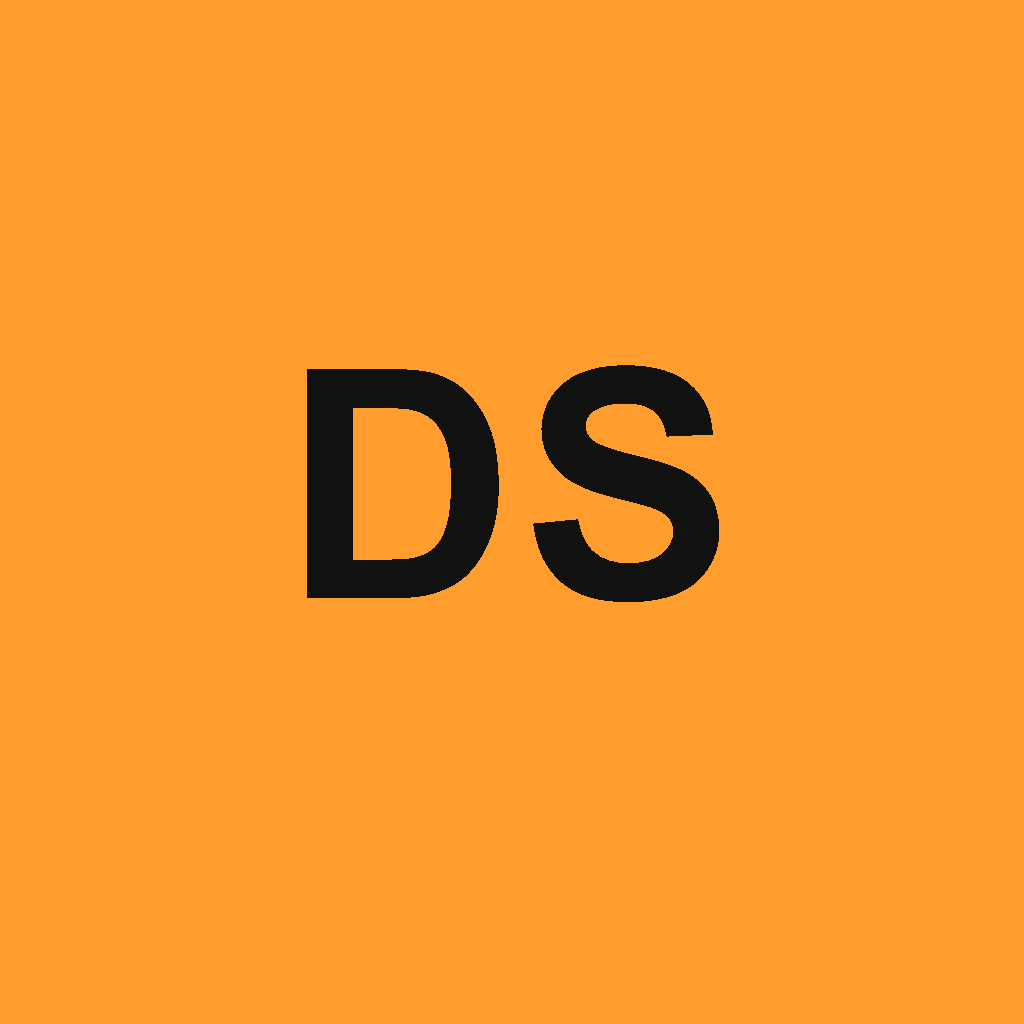
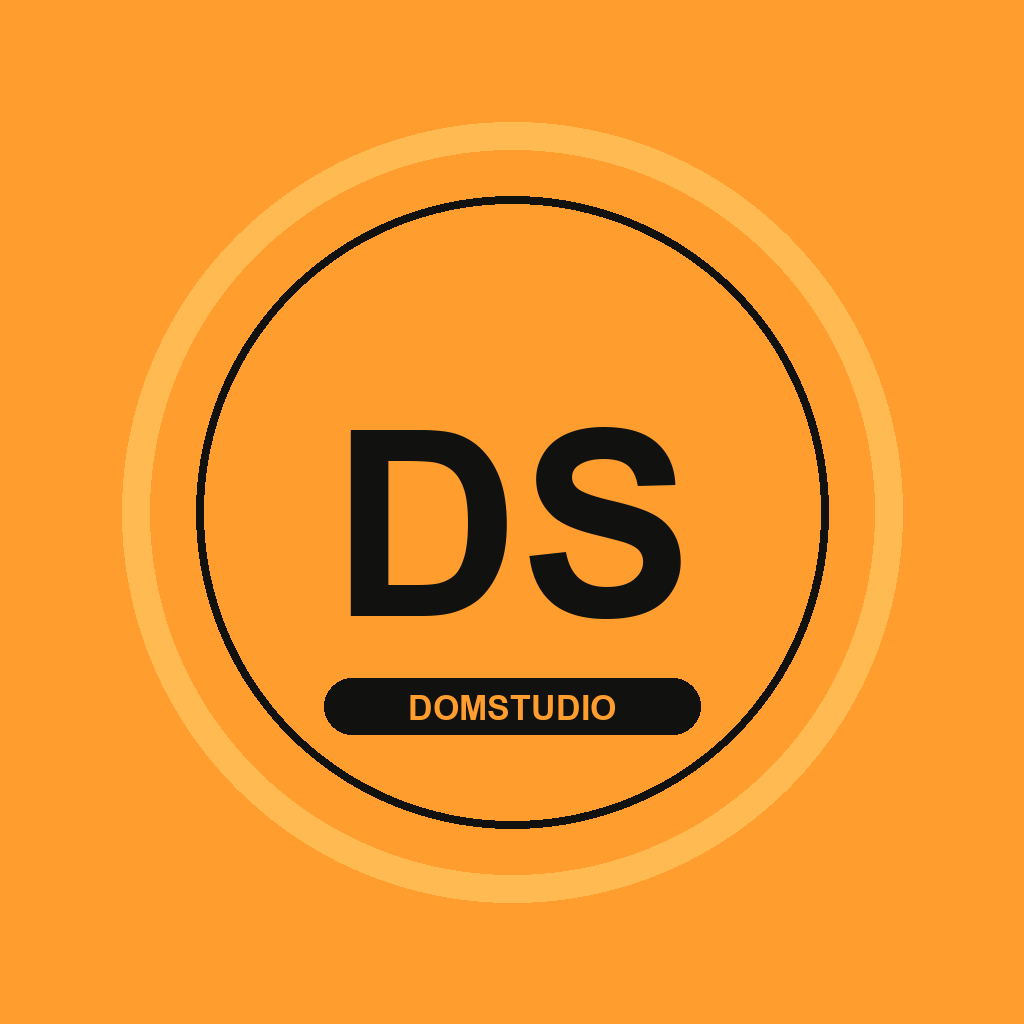
Fix native home controls and branding

Changed region(s): [[0.0938, 0.0938, 0.9062, 0.9062], [0.2812, 0.3438, 0.7188, 0.625]]

diff --git a/domstudio-mobile/App.tsx b/domstudio-mobile/App.tsx
@@ -5,6 +5,7 @@ import {
   Image,
   ImageSourcePropType,
   LogBox,
+  Modal,
   Pressable,
   ScrollView,
   StatusBar,
@@ -585,7 +586,15 @@ function MainTabs(props: {
       }}
     >
       <Tabs.Screen name="Home" options={{ tabBarIcon: ({ color }) => <TabGlyph color={color} kind="home" /> }}>
-        {({ navigation }) => <HomeScreen offline={props.offline} tokens={props.user.tokens ?? 0} onCreate={() => navigation.navigate("Studio")} />}
+        {({ navigation }) => (
+          <HomeScreen
+            offline={props.offline}
+            tokens={props.user.tokens ?? 0}
+            onCreate={() => navigation.navigate("Studio")}
+            onExamples={() => navigation.navigate("Examples")}
+            onPricing={() => navigation.navigate("Pricing")}
+          />
+        )}
       </Tabs.Screen>
       <Tabs.Screen name="Studio" options={{ tabBarIcon: ({ color }) => <TabGlyph color={color} kind="studio" /> }}>
         {() => <StudioScreen {...props} />}
@@ -600,18 +609,50 @@ function MainTabs(props: {
   );
 }
 
-function HomeScreen({ offline, onCreate, tokens }: { offline: boolean; onCreate: () => void; tokens: number }) {
+function HomeScreen({
+  offline,
+  onCreate,
+  onExamples,
+  onPricing,
+  tokens
+}: {
+  offline: boolean;
+  onCreate: () => void;
+  onExamples: () => void;
+  onPricing: () => void;
+  tokens: number;
+}) {
+  const [language, setLanguage] = useState<"RU" | "EN">("RU");
+  const [menuOpen, setMenuOpen] = useState(false);
+
+  function runMenuAction(action: () => void) {
+    setMenuOpen(false);
+    action();
+  }
+
   return (
     <SafeAreaView style={styles.homeSafe}>
       <ScrollView contentContainerStyle={styles.homePage} keyboardShouldPersistTaps="handled">
         <View style={styles.homeTopBar}>
           <View style={styles.homeBrandMark}><Text style={styles.homeBrandText}>DS</Text></View>
           <View style={styles.homeTopActions}>
-            <View style={styles.homeRoundButton}><Text style={styles.homeRoundText}>RU</Text></View>
-            <View style={styles.homeRoundButton}>
+            <Pressable
+              accessibilityRole="button"
+              accessibilityLabel="Toggle language"
+              style={({ pressed }) => [styles.homeRoundButton, pressed && styles.homeRoundButtonPressed]}
+              onPress={() => setLanguage((value) => (value === "RU" ? "EN" : "RU"))}
+            >
+              <Text style={styles.homeRoundText}>{language}</Text>
+            </Pressable>
+            <Pressable
+              accessibilityRole="button"
+              accessibilityLabel="Open menu"
+              style={({ pressed }) => [styles.homeRoundButton, pressed && styles.homeRoundButtonPressed]}
+              onPress={() => setMenuOpen(true)}
+            >
               <View style={styles.homeMenuLine} />
               <View style={styles.homeMenuLine} />
-            </View>
+            </Pressable>
           </View>
         </View>
 
@@ -636,7 +677,7 @@ function HomeScreen({ offline, onCreate, tokens }: { offline: boolean; onCreate:
         <View style={styles.homeMiniStudio}>
           <View style={styles.homeMiniHead}>
             <Text style={styles.homeMiniKicker}>Mini studio</Text>
-            <Text style={styles.homeMiniMeta}>WB · Ozon · Yandex · Avito</Text>
+            <Text style={styles.homeMiniMeta}>WB / Ozon / Yandex / Avito</Text>
           </View>
           <View style={styles.homeProofStrip}>
             <View style={styles.homeProofSlot}>
@@ -670,6 +711,30 @@ function HomeScreen({ offline, onCreate, tokens }: { offline: boolean; onCreate:
           </View>
         </View>
       </ScrollView>
+      <Modal animationType="fade" transparent visible={menuOpen} onRequestClose={() => setMenuOpen(false)}>
+        <Pressable style={styles.menuBackdrop} onPress={() => setMenuOpen(false)}>
+          <Pressable style={styles.homeMenuPanel} onPress={() => undefined}>
+            <View style={styles.menuHandle} />
+            <Text style={styles.menuTitle}>DomStudio</Text>
+            <Text style={styles.menuSub}>Move through the seller workflow.</Text>
+            <Pressable style={styles.menuItem} onPress={() => runMenuAction(onCreate)}>
+              <Text style={styles.menuItemText}>Create photo</Text>
+              <Text style={styles.menuItemMeta}>Open Studio</Text>
+            </Pressable>
+            <Pressable style={styles.menuItem} onPress={() => runMenuAction(onExamples)}>
+              <Text style={styles.menuItemText}>Examples</Text>
+              <Text style={styles.menuItemMeta}>See formats</Text>
+            </Pressable>
+            <Pressable style={styles.menuItem} onPress={() => runMenuAction(onPricing)}>
+              <Text style={styles.menuItemText}>Pricing</Text>
+              <Text style={styles.menuItemMeta}>Plans and limits</Text>
+            </Pressable>
+            <Pressable style={styles.menuCloseButton} onPress={() => setMenuOpen(false)}>
+              <Text style={styles.menuCloseText}>Close</Text>
+            </Pressable>
+          </Pressable>
+        </Pressable>
+      </Modal>
     </SafeAreaView>
   );
 }
@@ -1255,7 +1320,7 @@ function SettingsScreen({
       <View style={styles.card}>
         <Text style={styles.cardTitle}>Build readiness</Text>
         <Text style={styles.muted}>Camera, gallery picker, media-library save, secure tokens, and native tabs are enabled.</Text>
-        <Text style={styles.muted}>Icons and splash are placeholders until final brand assets are supplied.</Text>
+        <Text style={styles.muted}>Native icon, splash, Home, Studio, Examples, and Pricing surfaces now share the DomStudio brand system.</Text>
       </View>
     </Screen>
   );
@@ -1418,6 +1483,10 @@ const styles = StyleSheet.create({
     backgroundColor: "#ffffff",
     borderWidth: 1,
     borderColor: "rgba(17, 17, 15, 0.12)"
+  },
+  homeRoundButtonPressed: {
+    opacity: 0.72,
+    transform: [{ scale: 0.97 }]
   },
   homeRoundText: {
     color: colors.ink,
@@ -1678,6 +1747,72 @@ const styles = StyleSheet.create({
     fontSize: 11,
     fontWeight: "900",
     textTransform: "uppercase"
+  },
+  menuBackdrop: {
+    flex: 1,
+    justifyContent: "flex-end",
+    padding: 16,
+    backgroundColor: "rgba(17, 17, 15, 0.52)"
+  },
+  homeMenuPanel: {
+    borderRadius: 28,
+    padding: 18,
+    paddingTop: 12,
+    borderWidth: 1,
+    borderColor: "rgba(255, 157, 46, 0.24)",
+    backgroundColor: colors.card,
+    gap: 12
+  },
+  menuHandle: {
+    alignSelf: "center",
+    width: 48,
+    height: 5,
+    borderRadius: 3,
+    backgroundColor: colors.line,
+    marginBottom: 4
+  },
+  menuTitle: {
+    color: colors.ink,
+    fontSize: 24,
+    fontWeight: "900"
+  },
+  menuSub: {
+    color: colors.muted,
+    fontSize: 13,
+    lineHeight: 18,
+    fontWeight: "700"
+  },
+  menuItem: {
+    minHeight: 62,
+    borderRadius: 18,
+    paddingHorizontal: 14,
+    justifyContent: "center",
+    borderWidth: 1,
+    borderColor: colors.line,
+    backgroundColor: "#fffaf0"
+  },
+  menuItemText: {
+    color: colors.ink,
+    fontSize: 17,
+    fontWeight: "900"
+  },
+  menuItemMeta: {
+    marginTop: 3,
+    color: colors.muted,
+    fontSize: 12,
+    fontWeight: "800"
+  },
+  menuCloseButton: {
+    minHeight: 48,
+    borderRadius: 24,
+    alignItems: "center",
+    justifyContent: "center",
+    backgroundColor: colors.ink
+  },
+  menuCloseText: {
+    color: "#ffffff",
+    fontSize: 15,
+    fontWeight: "900"
   },
   examplesPage: {
     flexGrow: 1,

diff --git a/DOMSTUDIO_ARCHIVE.md b/DOMSTUDIO_ARCHIVE.md
@@ -1,5 +1,49 @@
 # DomStudio Archive
 
+## June 21, 2026 - Native Home Controls + Mobile Branding Pass
+
+User reported the native Home screen felt unresponsive because the burger/menu
+and language controls did not react, then asked to continue with point 2:
+real mobile branding.
+
+Fixes in `domstudio-mobile/App.tsx`:
+
+- Converted Home language pill from static `View` to `Pressable`.
+- Language pill now toggles `RU` / `EN` visibly.
+- Converted burger control from static `View` to `Pressable`.
+- Added a native menu modal with working actions:
+  - Create photo -> Studio
+  - Examples -> Examples tab
+  - Pricing -> Pricing tab
+  - Close
+- Added touch feedback to the top Home buttons.
+- Cleaned Home platform label to ASCII separators:
+  `WB / Ozon / Yandex / Avito`.
+- Updated Settings copy so app assets are no longer described as placeholders.
+
+Branding pass:
+
+- Regenerated native raster assets:
+  - `domstudio-mobile/assets/icon.png`
+  - `domstudio-mobile/assets/adaptive-icon.png`
+  - `domstudio-mobile/assets/splash-icon.png`
+- Updated `app.json` splash/adaptive icon background to dark DomStudio brand
+  color `#1b1322`.
+
+Validation:
+
+```bash
+cd domstudio-mobile
+npm run typecheck
+npx expo config --type public
+Invoke-WebRequest http://localhost:8081/node_modules/expo/AppEntry.bundle?platform=ios&dev=true&minify=false
+```
+
+Typecheck passed, Expo config resolved, and the iOS Metro bundle request
+returned HTTP 200.
+
+---
+
 ## June 21, 2026 - Mobile Home Screen Matched To Web Energy
 
 User shared an iPhone Safari screenshot of the web mobile home screen and noted